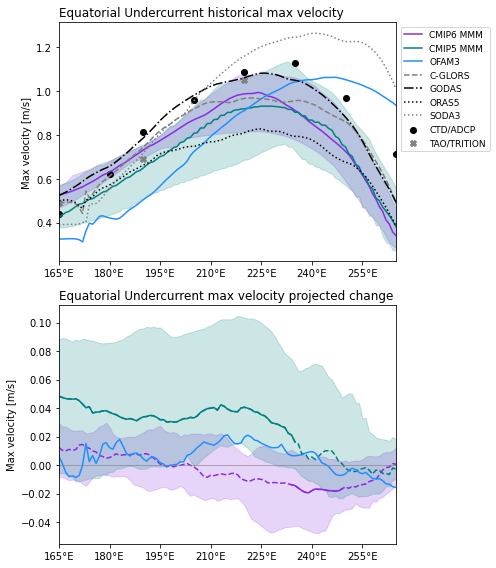
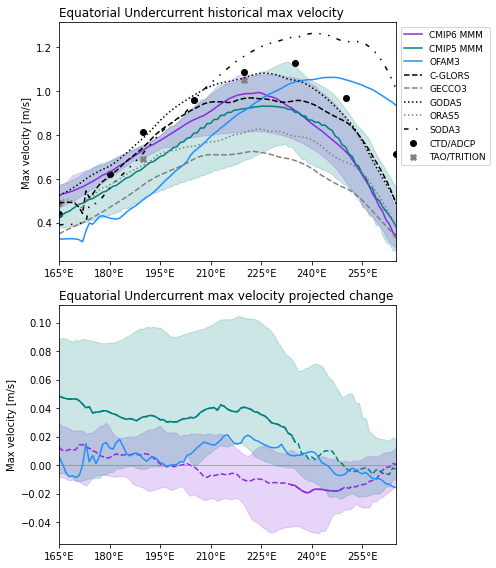
more cmip figures

diff --git a/scripts/cmip_fncs.py b/scripts/cmip_fncs.py
@@ -122,7 +122,19 @@ def subset_cmip(mip, m, var, exp, depth, lat, lon, lat_mid=False, lon_mid=None):
         dx = dx * -1
     return dx
 
+def open_reanalysis(var):
+    dr = []
+    for i, r in enumerate(cfg.Rdata._instances):
 
+        _var = r.uo if var == 'u' else r.vo
+        ds = xr.open_dataset(cfg.reanalysis/'{}o_{}_{}_{}_climo.nc'.format(var, r.alt_name, *r.period), decode_times=False)
+        print(ds)
+        ds = ds[_var].rename(r.cdict)
+        if ds['lon'].max() < 300:
+            ds['lon'] = xr.where(ds.lon < 0, ds.lon + 360, ds.lon)
+        dr.append(ds)
+        ds.close()
+    return dr
 ##############################################################################
 #                         Equatorial Undercurrent                            #
 ##############################################################################
@@ -185,11 +197,12 @@ def euc_observations(lat, lon, depth, method='static', vmin=0, sigma=False):
     db.coords['obs'] = ['CTD/ADCP', 'Gouriou & Toole (1993)', 'TAO/TRITION']
 
     # Reanalysis products.
-    robs = ['cglo', 'godas', 'oras', 'soda3.12.2']
-    robs_full = ['C-GLORS', 'GODAS', 'ORAS5', 'SODA3']
+    robs = ['cglo', 'gecco3-41', 'godas', 'oras', 'soda3.12.2']
+    robs_full = ['C-GLORS', 'GECCO3', 'GODAS', 'ORAS5', 'SODA3']
     dr = []
     for i, r in enumerate(robs):
         yrs = [1993, 2018]
+        var = 'u'
         if r in ['oras', 'cglo']:
             var = 'uo_' + r
             new_var_dict = {'depth': 'lev', 'latitude': 'lat', 'longitude': 'lon'}
@@ -197,10 +210,15 @@ def euc_observations(lat, lon, depth, method='static', vmin=0, sigma=False):
             var = 'ucur'
             new_var_dict = {'level': 'lev'}
         elif r in ['soda3.12.2']:
-            var = 'u'
             yrs = [1980, 2017]
             new_var_dict = {'st_ocean': 'lev', 'yu_ocean': 'lat', 'xu_ocean': 'lon'}
-        ds = xr.open_dataset(cfg.reanalysis/'uo_{}_{}_{}_climo.nc'.format(r, *yrs))[var]
+        elif r in ['soda3.12.2']:
+            yrs = [1980, 2017]
+            new_var_dict = {'st_ocean': 'lev', 'yu_ocean': 'lat', 'xu_ocean': 'lon'}
+        elif r in ['gecco3-41']:
+            yrs = [1980, 2018]
+            new_var_dict = {'Depth': 'lev'}
+        ds = xr.open_dataset(cfg.reanalysis/'uo_{}_{}_{}_climo.nc'.format(r, *yrs), decode_times=False)[var]
         ds = ds.rename(new_var_dict)
 
         if ds['lon'].max() < 300:

diff --git a/scripts/plot_reanalysis_velocity.py b/scripts/plot_reanalysis_velocity.py
@@ -14,7 +14,7 @@ import matplotlib.pyplot as plt
 from mpl_toolkits.axes_grid1 import make_axes_locatable
 
 import cfg
-from tools import coord_formatter, idx
+from tools import coord_formatter, idx, idx2d
 from cmip_fncs import subset_cmip, bnds_wbc
 from cfg import mod6, mod5, lx5, lx6
 from main import ec, mc, ng
@@ -22,6 +22,7 @@ from fncs import image2video
 
 warnings.filterwarnings(action='ignore', message='Mean of empty slice')
 warnings.filterwarnings("ignore")
+
 
 def plot_reanalysis_vdepth(cc, var, lat, lon, depth, vmax=1,
                            pos=None, ndec=2, time='annual'):
@@ -42,17 +43,22 @@ def plot_reanalysis_vdepth(cc, var, lat, lon, depth, vmax=1,
     for i, r in enumerate(robs):
         yrs = [1993, 2018]
         if r in ['oras', 'cglo']:
-            var_ = '{}o_{}'.format(var, r)
-            new_var_dict = {'depth': 'lev', 'latitude': 'lat', 'longitude': 'lon'}
+            _var = '{}o_{}'.format(var, r)
+            nvar_dict = {'depth': 'lev', 'latitude': 'lat', 'longitude': 'lon'}
         elif r in ['godas']:
-            var_ = '{}cur'.format(var)
-            new_var_dict = {'level': 'lev'}
+            _var = '{}cur'.format(var)
+            nvar_dict = {'level': 'lev'}
         elif r in ['soda3.12.2']:
-            var_ = var
+            _var = var
             yrs = [1980, 2017]
-            new_var_dict = {'st_ocean': 'lev', 'yu_ocean': 'lat', 'xu_ocean': 'lon'}
-        ds = xr.open_dataset(cfg.reanalysis/'{}o_{}_{}_{}_climo.nc'.format(var, r, *yrs))[var_]
-        ds = ds.rename(new_var_dict)
+            nvar_dict = {'st_ocean': 'lev', 'yu_ocean': 'lat', 'xu_ocean': 'lon'}
+        elif r in ['cglorsv7']:  # BUG: still on 2D grid.
+            yrs = [1990, 2016]
+            _var = 'vomecrty' if var == 'v' else 'vozocrtx'
+            nvar_dict = {'time_centered': 'time', 'depth{}'.format(var): 'lev', 'nav_lat': 'lat', 'nav_lon': 'lon', 'y': 'j', 'x': 'i'}
+        ds = xr.open_dataset(cfg.reanalysis/'{}o_{}_{}_{}_climo.nc'.format(var, r, *yrs))[_var]
+
+        ds = ds.rename(nvar_dict)
         if ds['lon'].max() < 300:
             ds['lon'] = xr.where(ds.lon < 0, ds.lon + 360, ds.lon)
         try:

diff --git a/scripts/create_file_ofam_EUC_anom_std.py b/scripts/create_file_ofam_EUC_anom_std.py
@@ -1,0 +1,52 @@
+# -*- coding: utf-8 -*-
+"""
+created: Sat Feb 20 14:50:07 2021
+
+author: Annette Stellema (astellemas@gmail.com)
+
+
+"""
+
+import numpy as np
+import xarray as xr
+
+import cfg
+from tools import mlogger
+
+try:
+    from mpi4py import MPI
+    parallel = True
+except ImportError:
+    MPI = None
+    parallel = False
+
+rank = MPI.COMM_WORLD.Get_rank() if MPI else 0
+logger = mlogger('misc', parcels=False, misc=True)
+year = [1981, 2012]
+x, y, z = np.arange(140, 295), slice(-5, 5), slice(0, 35)
+clim = xr.open_dataset(cfg.ofam / 'ocean_u_{}-{}_climo.nc'.format(*year))
+clim = clim.sel(xu_ocean=x, yu_ocean=y).isel(st_ocean=z)
+new_file = 'ofam_u_month_anom_std_{}-{}.nc'.format(*year)
+
+def premeansnip(ds):
+    ds = ds.drop(['Time_bounds', 'average_DT', 'nv', 'st_edges_ocean'])
+    ds = ds.sel(xu_ocean=x, yu_ocean=y).isel(st_ocean=z).resample(Time='M').mean('Time', keep_attrs=True)
+    ds = ds.groupby('Time.month') - clim.groupby('Time.month').mean('Time', keep_attrs=True).compute()
+    return ds.drop('month')
+
+logger.info("{}: Rank={}: Starting.".format(new_file, rank))
+files = [cfg.ofam / 'ocean_u_{}_{:02d}.nc'.format(y, m)
+         for y in range(year[0], year[1] + 1) for m in range(1, 13)]
+ds = xr.open_mfdataset(files, combine='by_coords', concat_dim="Time",
+                       data_vars=['u'], preprocess=premeansnip,
+                       parallel=parallel)
+
+logger.info("{}: Rank={}: Dataset opened.".format(new_file, rank))
+dsd = ds.std(dim='Time')
+logger.info("{}: Rank={}: Calculated std.".format(new_file, rank))
+dsd = dsd.load()
+logger.info("{}: Rank={}: Loaded.".format(new_file, rank))
+dsd.to_netcdf(cfg.data / new_file)
+logger.info("{}: Rank={}: Saved.".format(new_file, rank))
+dsd.close()
+ds.close()

diff --git a/scripts/cfg.py b/scripts/cfg.py
@@ -280,3 +280,40 @@ class Cmip:
 
 mip6 = Cmip(6)
 mip5 = Cmip(5)
+class Rdata:
+    _instances = []
+
+    def __init__(self, name, alt_name, uo, vo, period, cdict, action=None):
+        self.name = name
+        self.alt_name = alt_name
+        self.uo = uo
+        self.vo = vo
+        self.period = period
+        self.cdict = cdict
+        # Create instance of class.
+        self.action = action
+        Rdata._instances.append(self)
+
+    # Returns a printable representation of the given object.
+    def __repr__(self):
+        return str(self.name)
+
+    @classmethod
+    def resolve_actions(cls):
+        for instance in cls._instances:
+            if instance.action == "create":
+                instance.__create()
+            elif instance.action == "remove":
+                instance.__remove()
+Rdata('C-GLORS', 'cglo', 'uo_cglo', 'vo_cglo', [1993, 2018],
+      {'depth': 'lev', 'latitude': 'lat', 'longitude': 'lon'})
+Rdata('GECCO3', 'gecco3-41', 'u', 'v', [1980, 2018], {'Depth': 'lev'})
+Rdata('GODAS', 'godas', 'ucur', 'vcur', [1993, 2018], {'level': 'lev'})
+Rdata('ORAS5', 'oras', 'uo_oras', 'vo_oras', [1993, 2018],
+      {'depth': 'lev', 'latitude': 'lat', 'longitude': 'lon'})
+Rdata('SODA3', 'soda3.12.2', 'u', 'v', [1980, 2017],
+      {'st_ocean': 'lev', 'yu_ocean': 'lat', 'xu_ocean': 'lon'})
+# Rdata('C-GLORSv7', 'cglorsv7', 'vozocrtx', 'vomecrty', [1990, 2016],
+#       {'time_centered': 'time', 'depthu': 'lev', 'nav_lat': 'lat',
+#        'nav_lon': 'lon', 'y': 'j', 'x': 'i'})
+Rdata.resolve_actions()

diff --git a/scripts/cmip_euc_transport.py b/scripts/cmip_euc_transport.py
@@ -119,7 +119,7 @@ def plot_cmip_euc_transport(de, de6, de5, lat, lon, depth, method='static', vmin
     if show_obs:
         db, dr = euc_observations(lat, lon, depth, method=method, vmin=vmin)
         # Reanalysis products.
-        for v, c, m in zip(dr.robs.values, ['grey', 'k', 'k', 'grey'], ['--', '-.', ':', ':']):
+        for v, c, m in zip(dr.robs.values, ['k', 'grey', 'k', 'grey', 'k'], ['--', '--', ':', ':', (0, (3, 5, 1, 5, 1, 5))]):
             ax[0].plot(lon, dr[var].mean('time').sel(robs=v), color=c, label=str(v.item()).upper(), linestyle=m)
         # Observations.
         ax[0].scatter(db.lon, db[var].isel(obs=0), color='k', label=db.obs[0].item(), marker='o')
@@ -202,7 +202,7 @@ def plot_cmip_euc_month(de, de6, de5, lat, lon, depth, method='max', vmin=0.8,
     if show_obs:
         db, dr = euc_observations(lat, lon, depth, method=method, vmin=vmin)
         # Reanalysis products.
-        for v, c, m in zip(dr.robs.values, ['grey', 'k', 'k', 'grey'], ['--', '-.', ':', ':']):
+        for v, c, m in zip(dr.robs.values, ['k', 'grey', 'k', 'grey', 'k'], ['--', '--', ':', ':', (0, (3, 5, 1, 5, 1, 5))]):
             ax[0].plot(xdim, dr.ec.sel(robs=v), color=c, label=v.upper(), linestyle=m)
         # TODO: Remove single obs value?
         # ax[0].scatter(db.lon, db['jo'], color='k', label=db[v].attrs['ref'], marker='o')
